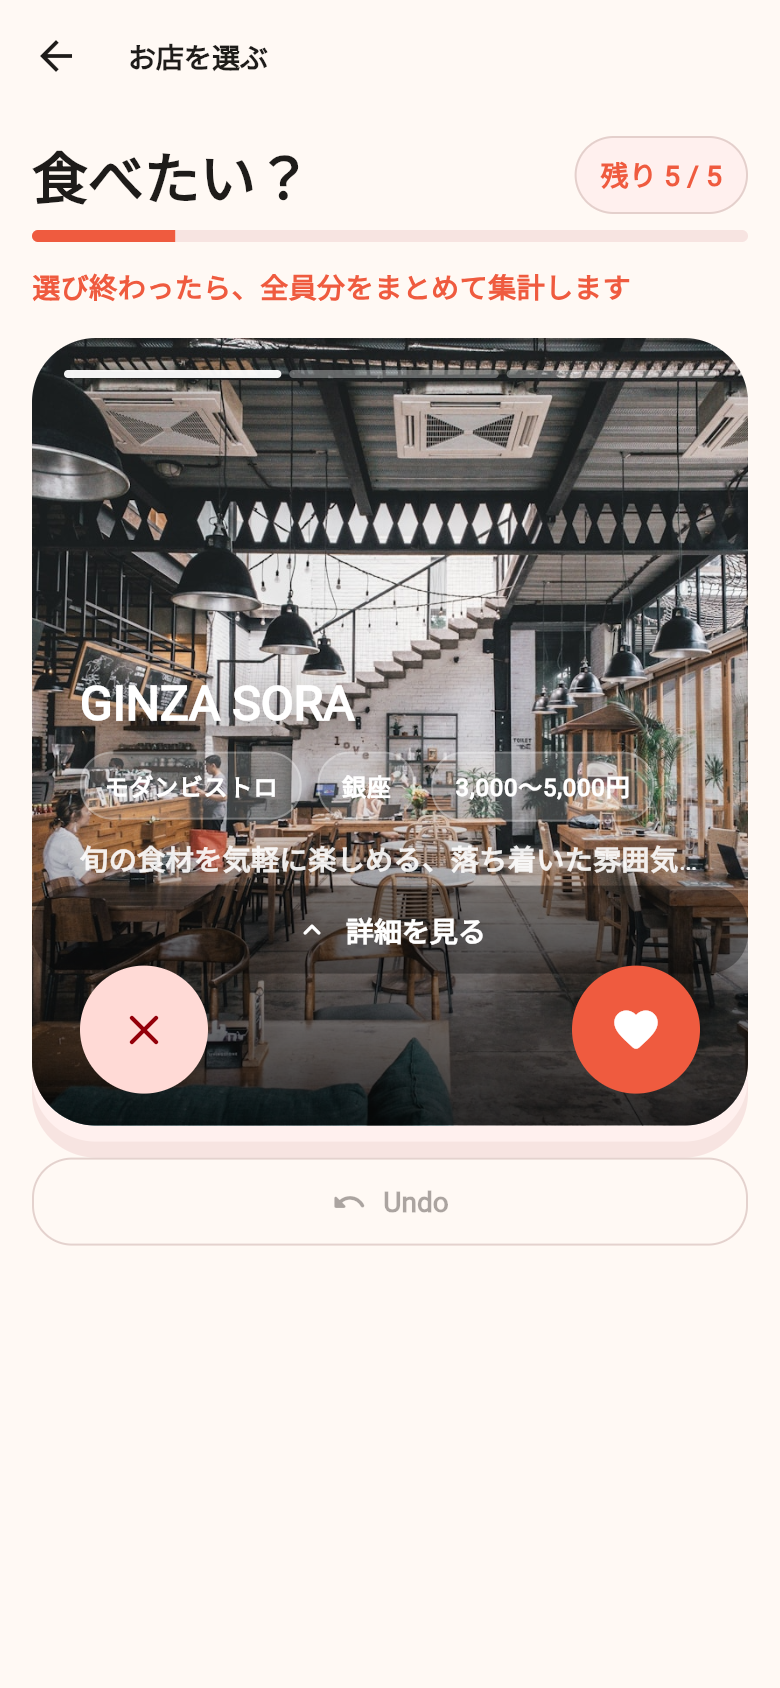
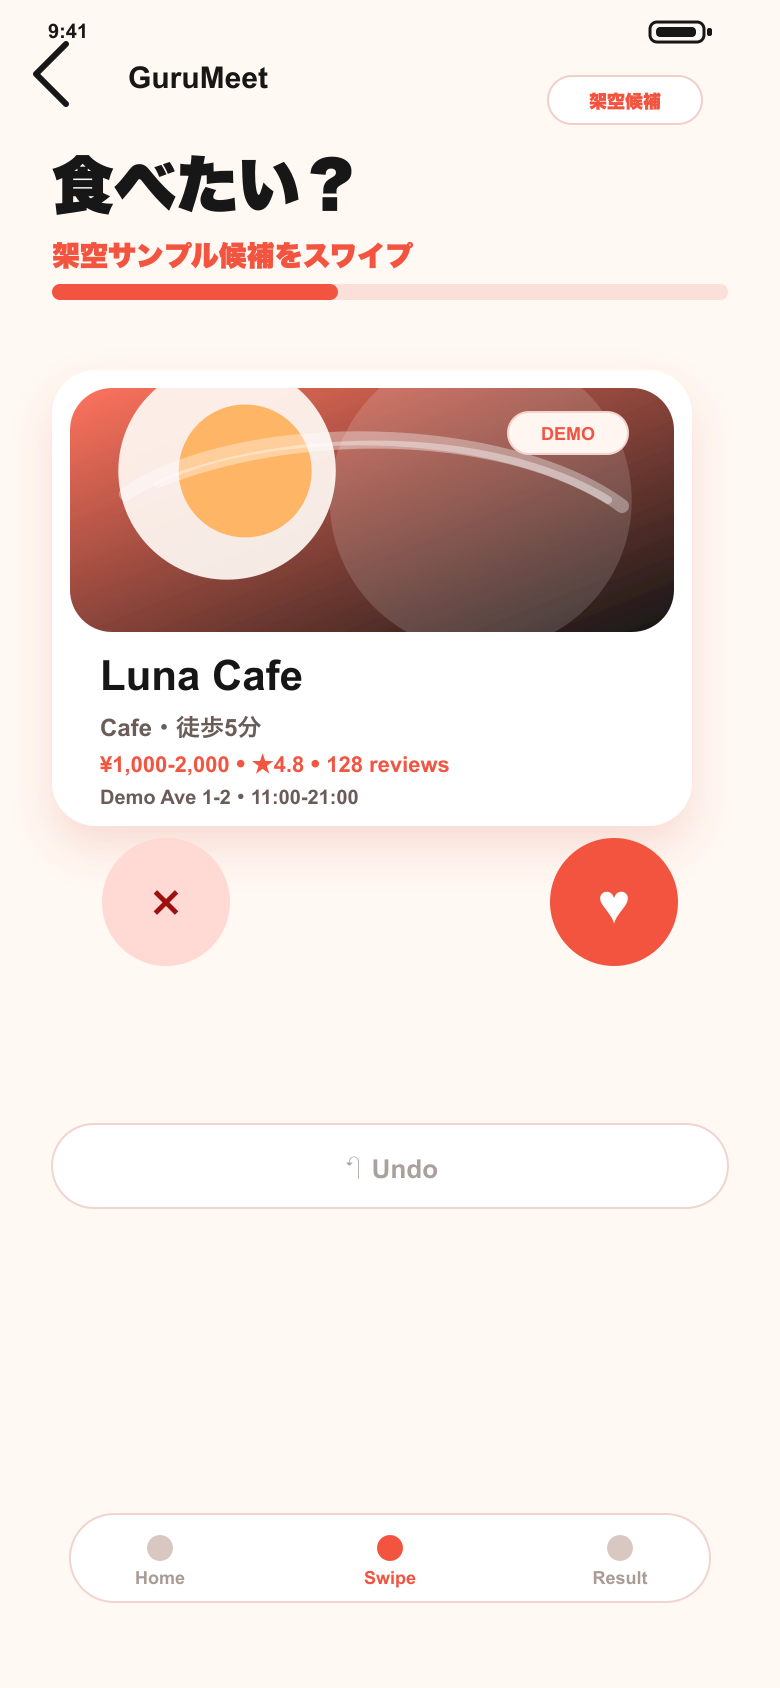
Use dummy restaurant data on LP

diff --git a/components/landing-page.tsx b/components/landing-page.tsx
@@ -26,16 +26,11 @@ import { PhoneFrame } from "./phone-frame";
 const APP_URL = "#experience";
 
 const FOOD_IMAGES = {
-  hero:
-    "https://images.unsplash.com/photo-1552566626-52f8b828add9?auto=format&fit=crop&w=1600&q=86",
-  ramen:
-    "https://images.unsplash.com/photo-1569718212165-3a8278d5f624?auto=format&fit=crop&w=1200&q=84",
-  yakiniku:
-    "https://images.unsplash.com/photo-1544025162-d76694265947?auto=format&fit=crop&w=1200&q=84",
-  table:
-    "https://images.unsplash.com/photo-1504674900247-0877df9cc836?auto=format&fit=crop&w=1800&q=86",
-  restaurant:
-    "https://images.unsplash.com/photo-1517248135467-4c7edcad34c4?auto=format&fit=crop&w=1600&q=84",
+  hero: "/mock/hero.png",
+  ramen: "/mock/ramen.png",
+  yakiniku: "/mock/yakiniku.png",
+  table: "/mock/table.png",
+  restaurant: "/mock/restaurant.png",
 };
 
 const screens = [
@@ -50,16 +45,20 @@ const screens = [
 
 const swipeCards = [
   {
-    name: "炭火とワイン 渋谷店",
-    meta: "焼肉 · ¥3,000–4,000",
+    name: "Luna Cafe",
+    meta: "Cafe · ¥1,000-2,000 · Demo Ave 1-2",
     image: FOOD_IMAGES.yakiniku,
-    score: "4.6",
+    score: "4.8",
+    reviews: "128 reviews",
+    hours: "11:00-21:00",
   },
   {
-    name: "麺屋 しずく",
-    meta: "ラーメン · ¥1,000–2,000",
+    name: "Grill House",
+    meta: "Grill · ¥2,000-3,500 · Sample St 3-4",
     image: FOOD_IMAGES.ramen,
-    score: "4.4",
+    score: "4.6",
+    reviews: "96 reviews",
+    hours: "17:00-23:00",
   },
 ];
 
@@ -79,9 +78,9 @@ const steps = [
 ];
 
 const finalists = [
-  { rank: "01", name: "炭火とワイン", score: "92%", votes: 4 },
-  { rank: "02", name: "麺屋 しずく", score: "78%", votes: 3 },
-  { rank: "03", name: "トラットリア 8", score: "65%", votes: 2 },
+  { rank: "01", name: "Luna Cafe", score: "92%", votes: 4 },
+  { rank: "02", name: "Grill House", score: "78%", votes: 3 },
+  { rank: "03", name: "Sushi Atelier", score: "65%", votes: 2 },
 ];
 
 const fadeUp = {
@@ -252,6 +251,7 @@ function SwipeCard({ onSwipe }: { onSwipe: (direction: "left" | "right") => void
         <div className="absolute bottom-0 left-0 right-0 p-5 text-white">
           <p className="text-xl font-bold">{card.name}</p>
           <p className="mt-1 text-xs font-medium text-white/68">{card.meta}</p>
+          <p className="mt-1 text-xs font-medium text-white/68">{card.reviews} · {card.hours}</p>
         </div>
       </motion.div>
       <div className="absolute -bottom-6 left-1/2 z-10 flex -translate-x-1/2 gap-3">
@@ -502,6 +502,9 @@ function Screens() {
           <span>07</span>
         </Reveal>
       </div>
+      <Reveal delay={0.1} className="section-shell screens-disclaimer">
+        ※画面は開発中のイメージです。店舗名・画像・住所・評価・レビュー数・営業時間はすべてデモ用のダミーデータです。
+      </Reveal>
       <div className="screen-scroller">
         {screens.map((screen, index) => (
           <motion.figure
@@ -581,9 +584,9 @@ function Features() {
               <h3>好みの重なりを、<br />ランキングで。</h3>
             </div>
             <ol className="ranking-list">
-              <li><b>01</b><span>炭火とワイン</span><strong>92%</strong></li>
-              <li><b>02</b><span>麺屋 しずく</span><strong>78%</strong></li>
-              <li><b>03</b><span>トラットリア 8</span><strong>65%</strong></li>
+              <li><b>01</b><span>Luna Cafe</span><strong>92%</strong></li>
+              <li><b>02</b><span>Grill House</span><strong>78%</strong></li>
+              <li><b>03</b><span>Sushi Atelier</span><strong>65%</strong></li>
             </ol>
           </Reveal>
 
@@ -648,7 +651,7 @@ function Experience() {
           <div className="match-panel glass">
             <span>RESULT</span>
             <strong>全員一致</strong>
-            <p>炭火とワイン 渋谷店</p>
+            <p>Luna Cafe</p>
           </div>
           <div className="finalist-panel">
             {finalists.map((item, index) => (

diff --git a/app/globals.css b/app/globals.css
@@ -670,6 +670,14 @@ button {
   background: rgba(255, 255, 255, 0.18);
 }
 
+.screens-disclaimer {
+  margin-top: 26px;
+  color: rgba(255, 255, 255, 0.48);
+  font-size: 12px;
+  font-weight: 620;
+  line-height: 1.8;
+}
+
 .screen-scroller {
   display: flex;
   align-items: center;

diff --git a/next.config.ts b/next.config.ts
@@ -1,14 +1,6 @@
 import type { NextConfig } from "next";
 
 const nextConfig: NextConfig = {
-  images: {
-    remotePatterns: [
-      {
-        protocol: "https",
-        hostname: "images.unsplash.com",
-      },
-    ],
-  },
 };
 
 export default nextConfig;

diff --git a/lib/site.ts b/lib/site.ts
@@ -1,1 +1,1 @@
-export const SITE_URL = "https://gurumeet-lp.vercel.app";
+export const SITE_URL = "https://lp.gurumeet.net";

diff --git a/README.md b/README.md
@@ -22,7 +22,7 @@ npm test
 - `app/globals.css`: グローバルスタイル、端末モックアップ
 - `components/landing-page.tsx`: 各セクション、コピー、画像・動画URL
 - `components/phone-frame.tsx`: アプリ画面共通モックアップ
-- `public/screens/`: GuruMeet実機画面
+- `public/screens/`: GuruMeetの架空サンプル画面
 - `public/og.png`: ソーシャルプレビュー
 
 ## Replace content
